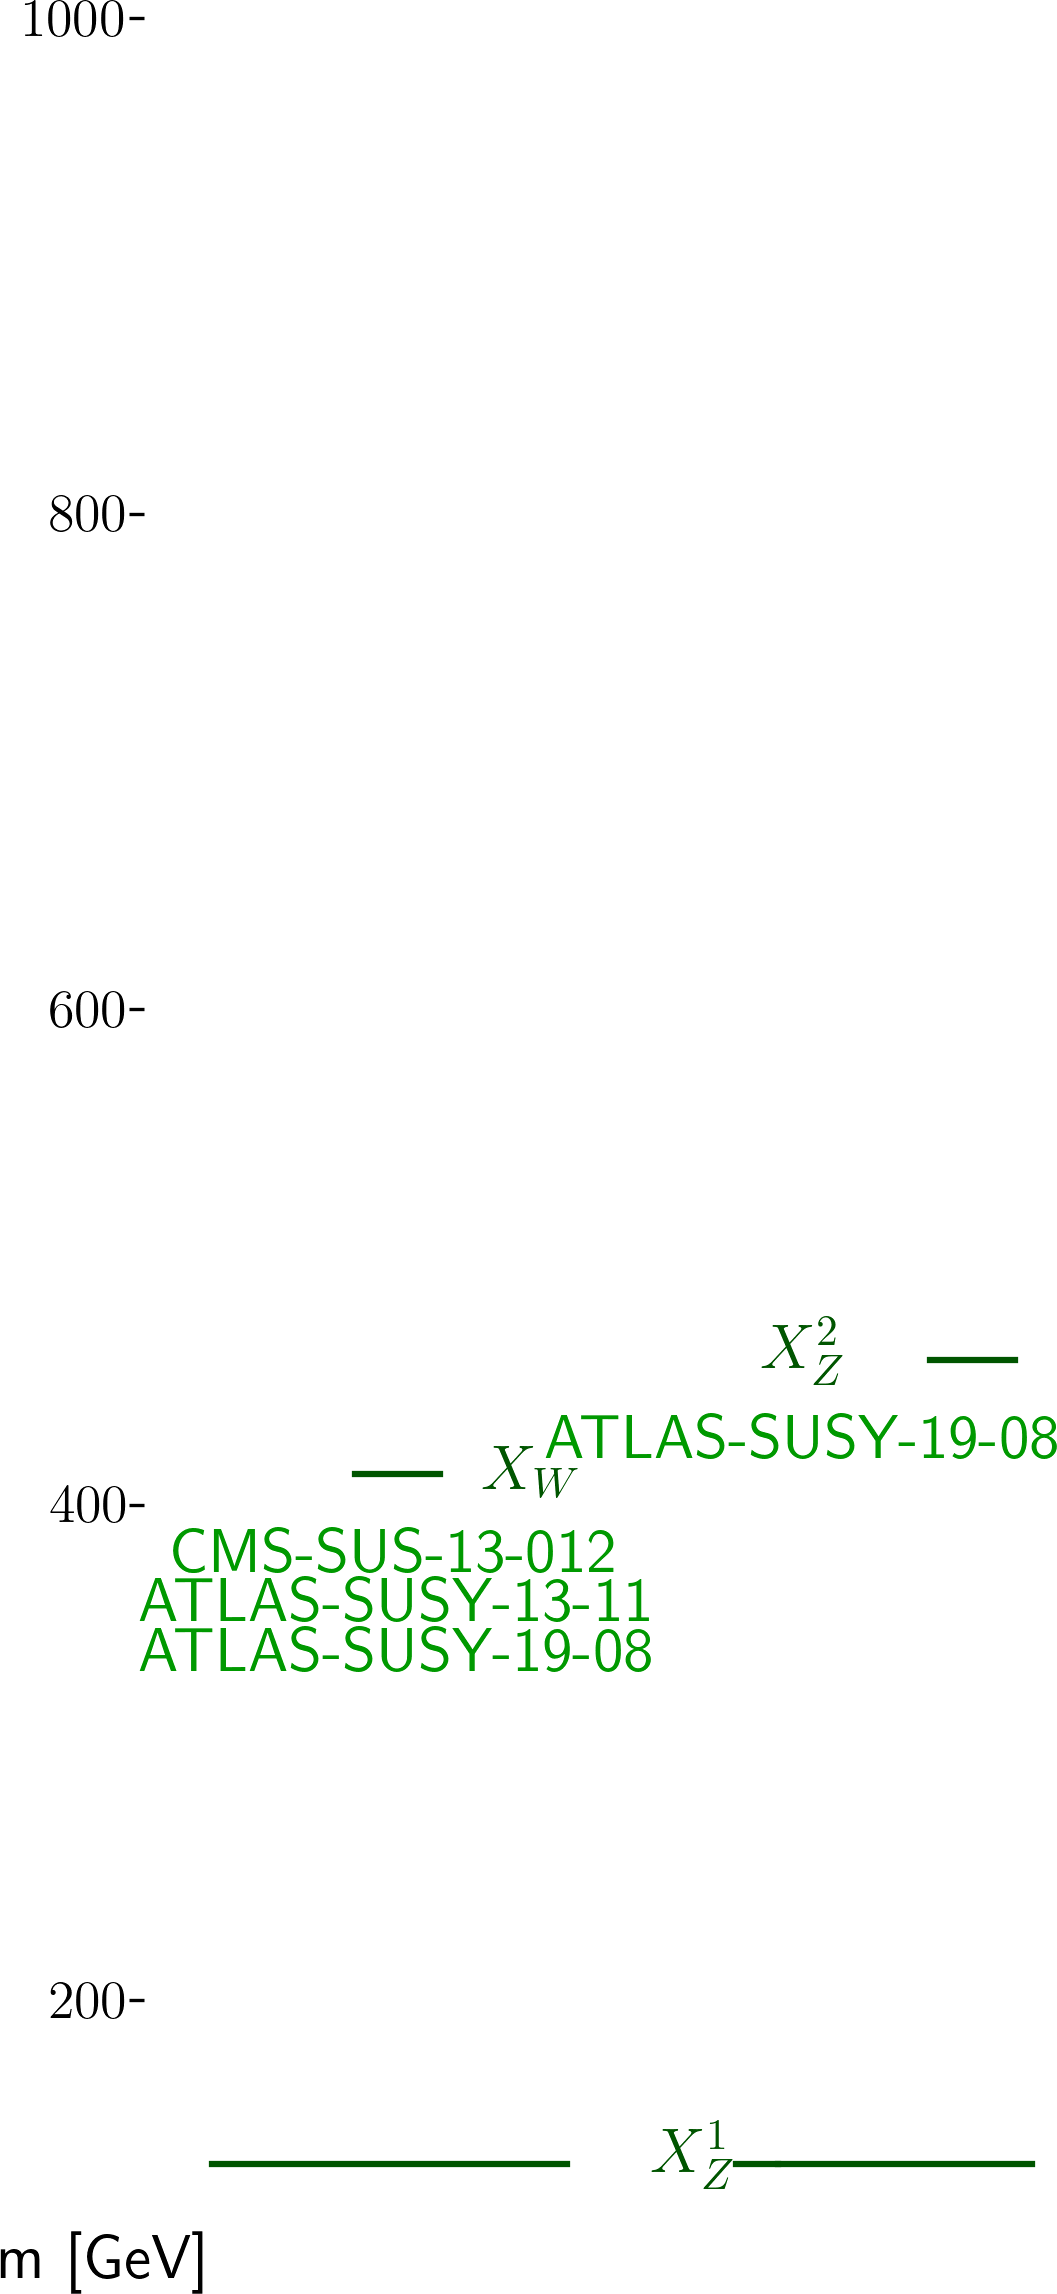
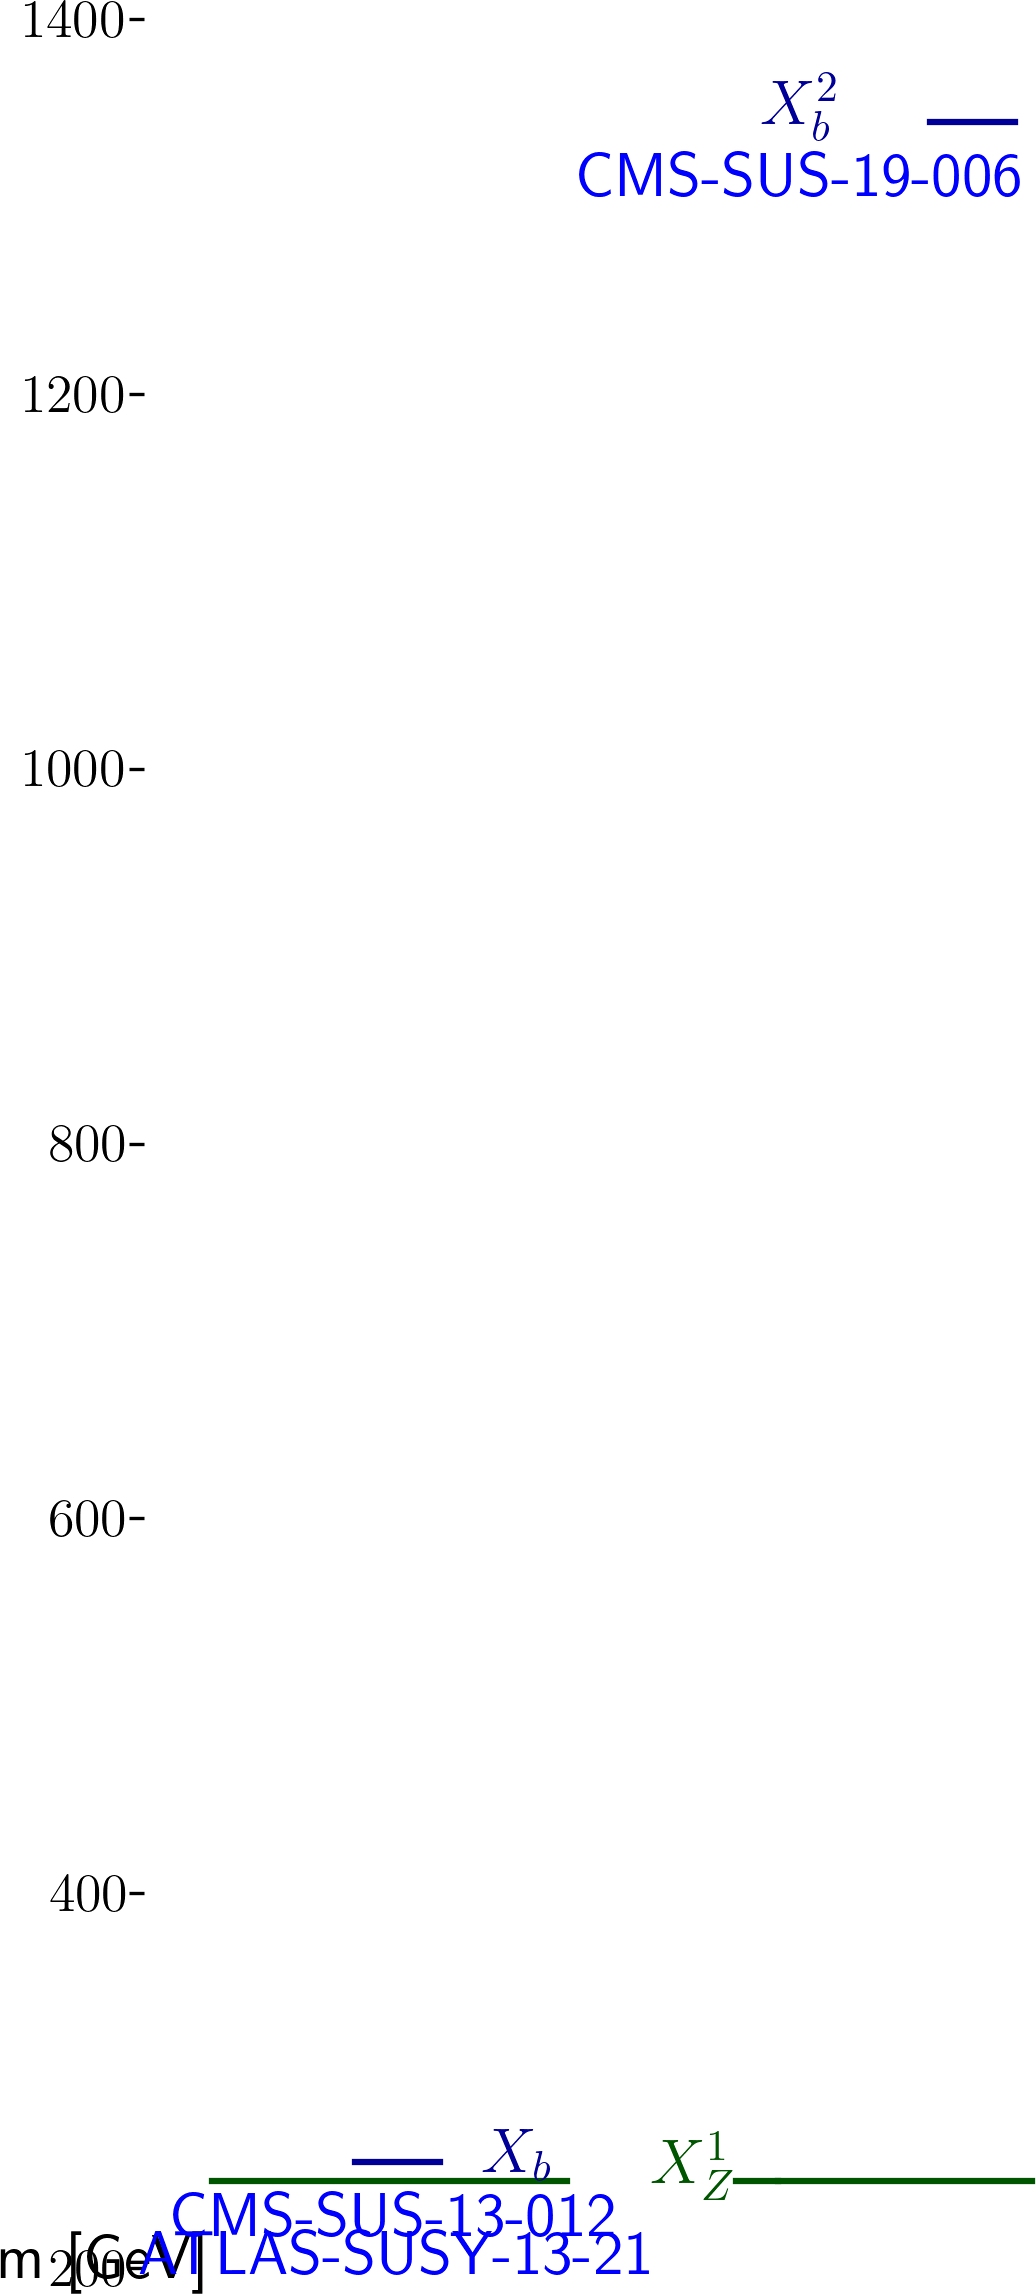
automated update by plotHiscore.py

diff --git a/protomodels/latest/index.html b/protomodels/latest/index.html
@@ -1,27 +1,28 @@
 <html>
 <body>
 <center>
-<table><td><h1>Current best protomodel: K=4.00</h1><td><img height=60px src=https://smodels.github.io/pics/banner.png></table>
+<table><td><h1>Current best protomodel: K=5.66</h1><td><img height=60px src=https://smodels.github.io/pics/banner.png></table>
 </center>
-<b><a href=./hiscore.slha>ProtoModel</a> <a href=./pmodel.py>(dict)</a> produced with <a href=https://smodels.github.io/docs/Validation124fake43>database v1.2.4fake43</a>, combination strategy <a href=./matrix_aggressive.png>aggressive</a> in walker 16 step 240.</b> K plots for: <a href=./M1000022.png?8268678>X<sub>Z</sub><sup>1</sup></a>, <a href=./M1000023.png?8268678>X<sub>Z</sub><sup>2</sup></a>, <a href=./M1000024.png?8268678>X<sub>W</sub></a>. HPD plots for: <a href=./llhd1000023.png?8268678>X<sub>Z</sub><sup>2</sup></a>, <a href=./llhd1000024.png?8268678>X<sub>W</sub></a>. SSM plots for: <br>
+<b><a href=./hiscore.slha>ProtoModel</a> <a href=./pmodel.py>(dict)</a> produced with <a href=https://smodels.github.io/docs/Validation124fake47>database v1.2.4fake47</a>, combination strategy <a href=./matrix_aggressive.png>aggressive</a> in walker 0 step 270.</b> K plots for: <a href=./M1000022.png?8268751>X<sub>Z</sub><sup>1</sup></a>, <a href=./M2000005.png?8268751>X<sub>b</sub><sup>2</sup></a>, <a href=./M1000005.png?8268751>X<sub>b</sub></a>. HPD plots for: <a href=./llhd2000005.png?8268751>X<sub>b</sub><sup>2</sup></a>, <a href=./llhd1000005.png?8268751>X<sub>b</sub></a>. SSM plots for: <br>
 <table width=80%>
 <tr><td>
-<br><b>4 predictions available. Highest r values are:</b><br><ul>
-<li>ATLAS-SUSY-2019-08:TChiWH r=1.30, r<sub>exp</sub>=2.26<br>
-<li>ATLAS-SUSY-2018-32:TChiWW r=1.00, r<sub>exp</sub>=N/A<br>
-<li>ATLAS-SUSY-2013-11:TChiWW r=0.11, r<sub>exp</sub>=0.15<br>
-<li>CMS-SUS-13-012:TChiWW r=0.01, r<sub>exp</sub>=0.01<br>
+<br><b>9 predictions available. Highest r values are:</b><br><ul>
+<li>ATLAS-SUSY-2013-21:T2bb r=0.77, r<sub>exp</sub>=N/A<br>
+<li>CMS-SUS-16-033:T2bb r=0.71, r<sub>exp</sub>=N/A<br>
+<li>CMS-SUS-19-006:T2bb r=0.69, r<sub>exp</sub>=N/A<br>
+<li>CMS-SUS-13-012:T2bb r=0.61, r<sub>exp</sub>=N/A<br>
+<li>CMS-SUS-16-036:T2bb r=0.59, r<sub>exp</sub>=N/A<br>
 </ul>
 <td><br><b>K values without analyses: (contribution)</b><br>
 <ul>
-<li> <a href=>ATLAS-SUSY-2013-11</a>: 6.88 (-132%)
-<li> <a href=>CMS-SUS-13-012</a>: 6.49 (-114%)
-<li> <a href=>ATLAS-SUSY-2019-08</a>: -3.56 (346%)
-<td><img width=600px src=./texdoc.png?1601268678>
-<br><font size=-1>Last updated: Mon Sep 28 06:51:18 2020</font>
+<li> <a href=>CMS-SUS-19-006</a>: 2.39 (20%)
+<li> <a href=>CMS-SUS-13-012</a>: 0.43 (31%)
+<li> <a href=>ATLAS-SUSY-2013-21</a>: -2.52 (49%)
+<td><img width=600px src=./texdoc.png?1601268751>
+<br><font size=-1>Last updated: Mon Sep 28 06:52:31 2020</font>
 </table><table style="width:80%">
-<td width=45%><img height=580px src=./ruler.png?1601268678><td width=55%><img height=380px src=./decays.png?1601268678>
-<font size=-3><iframe type="text/html" height="220px" width="100%s" frameborder="0" src="./rawnumbers.html?1601268678"></iframe></font>
+<td width=45%><img height=580px src=./ruler.png?1601268751><td width=55%><img height=380px src=./decays.png?1601268751>
+<font size=-3><iframe type="text/html" height="220px" width="100%s" frameborder="0" src="./rawnumbers.html?1601268751"></iframe></font>
 </table>
 </body>
 </html>

diff --git a/protomodels/latest/rawnumbers.html b/protomodels/latest/rawnumbers.html
@@ -1,7 +1,7 @@
 <table>
 <tr><th>Analysis Name</th><th>Type</th><th>Dataset</th><th>Topos</th><th>Observed</th><th>Expected</th><th>Approx &sigma;</th><th>Particles</th>
 </tr>
-<tr><td>ATLAS-SUSY-2013-11</td><td>em</td> <td>mT2-120-DF</td><td>TChiWW</td><td>4</td><td>3.6 +/- 1.2</td><td style="text-align:right">0.2 &sigma;</td><td style="text-align:right">X<sub>W</sub></td></tr>
-<tr><td>ATLAS-SUSY-2019-08</td><td>em</td> <td>SR_MM_Med_MCT</td><td>TChiWH</td><td>12</td><td>2.6 +/- 1.3</td><td style="text-align:right">4.5 &sigma;</td><td style="text-align:right">X<sub>W</sub>, X<sub>Z</sub><sup>2</sup></td></tr>
-<tr><td>CMS-SUS-13-012</td><td>em</td> <td>6NJet8_500HT800 ...</td><td>TChiWW</td><td>8</td><td>0.8 +/- 3.3</td><td style="text-align:right">2.1 &sigma;</td><td style="text-align:right">X<sub>W</sub></td></tr>
+<tr><td>ATLAS-SUSY-2013-21</td><td>em</td> <td>M3</td><td>T2bb</td><td>1966</td><td>1770 +/- 81</td><td style="text-align:right">2.1 &sigma;</td><td style="text-align:right">X<sub>b</sub></td></tr>
+<tr><td>CMS-SUS-13-012</td><td>em</td> <td>3NJet6_1000HT12 ...</td><td>T2bb</td><td>32</td><td>22.8 +/- 5.2</td><td style="text-align:right">1.3 &sigma;</td><td style="text-align:right">X<sub>b</sub></td></tr>
+<tr><td>CMS-SUS-19-006</td><td>ul</td> <td>-</td><td>T2bb</td><td> 2.7 fb </td><td> 1.4 fb</td><td style="text-align:right">1.8 &sigma;</td><td style="text-align:right">X<sub>b</sub><sup>2</sup></td></tr>
 </table>

diff --git a/protomodels/latest/pmodel.py b/protomodels/latest/pmodel.py
@@ -1,1 +1,1 @@
-{'masses': {1000022: 123.871, 1000024: 402.489, 1000023: 448.381}, 'ssmultipliers': {(1000022, 1000022): 0.002, (1000024, 1000024): 1.492, (-1000024, 1000024): 1.492, (-1000024, -1000024): 1.492, (1000022, 1000024): 1.492, (-1000024, 1000022): 1.492, (1000023, 1000023): 1.421, (1000022, 1000023): 1.421, (1000023, 1000024): 1.421, (-1000024, 1000023): 1.421}, 'decays': {1000022: {}, 1000024: {(1000022, 24): 1.0}, 1000023: {(1000022, 25): 1.0}}, 'timestamp': 'Mon Sep 28 06:51:07 2020', 'Z': 2.756, 'K': 3.998, 'step': 240, 'codever': '1.0', 'dbver': '1.2.4fake43'}
+{'masses': {1000022: 236.533, 1000005: 246.495, 2000005: 1335.008}, 'ssmultipliers': {(1000022, 1000022): 0.0, (1000005, 1000005): 0.61, (-1000005, 1000005): 0.61, (-1000005, -1000005): 0.61, (1000005, 1000022): 0.61, (-1000005, 1000022): 0.61, (2000005, 2000005): 0.647, (-2000005, 2000005): 0.647, (-2000005, -2000005): 0.647, (1000022, 2000005): 0.647, (-2000005, 1000022): 0.647, (1000005, 2000005): 0.647, (-2000005, 1000005): 0.647, (-1000005, 2000005): 0.647, (-2000005, -1000005): 0.647}, 'decays': {1000022: {}, 1000005: {(1000022, 5): 1.0}, 2000005: {(1000022, 5): 1.0}}, 'timestamp': 'Mon Sep 28 06:52:25 2020', 'Z': 3.035, 'K': 5.664, 'step': 270, 'codever': '1.0', 'dbver': '1.2.4fake47'}
